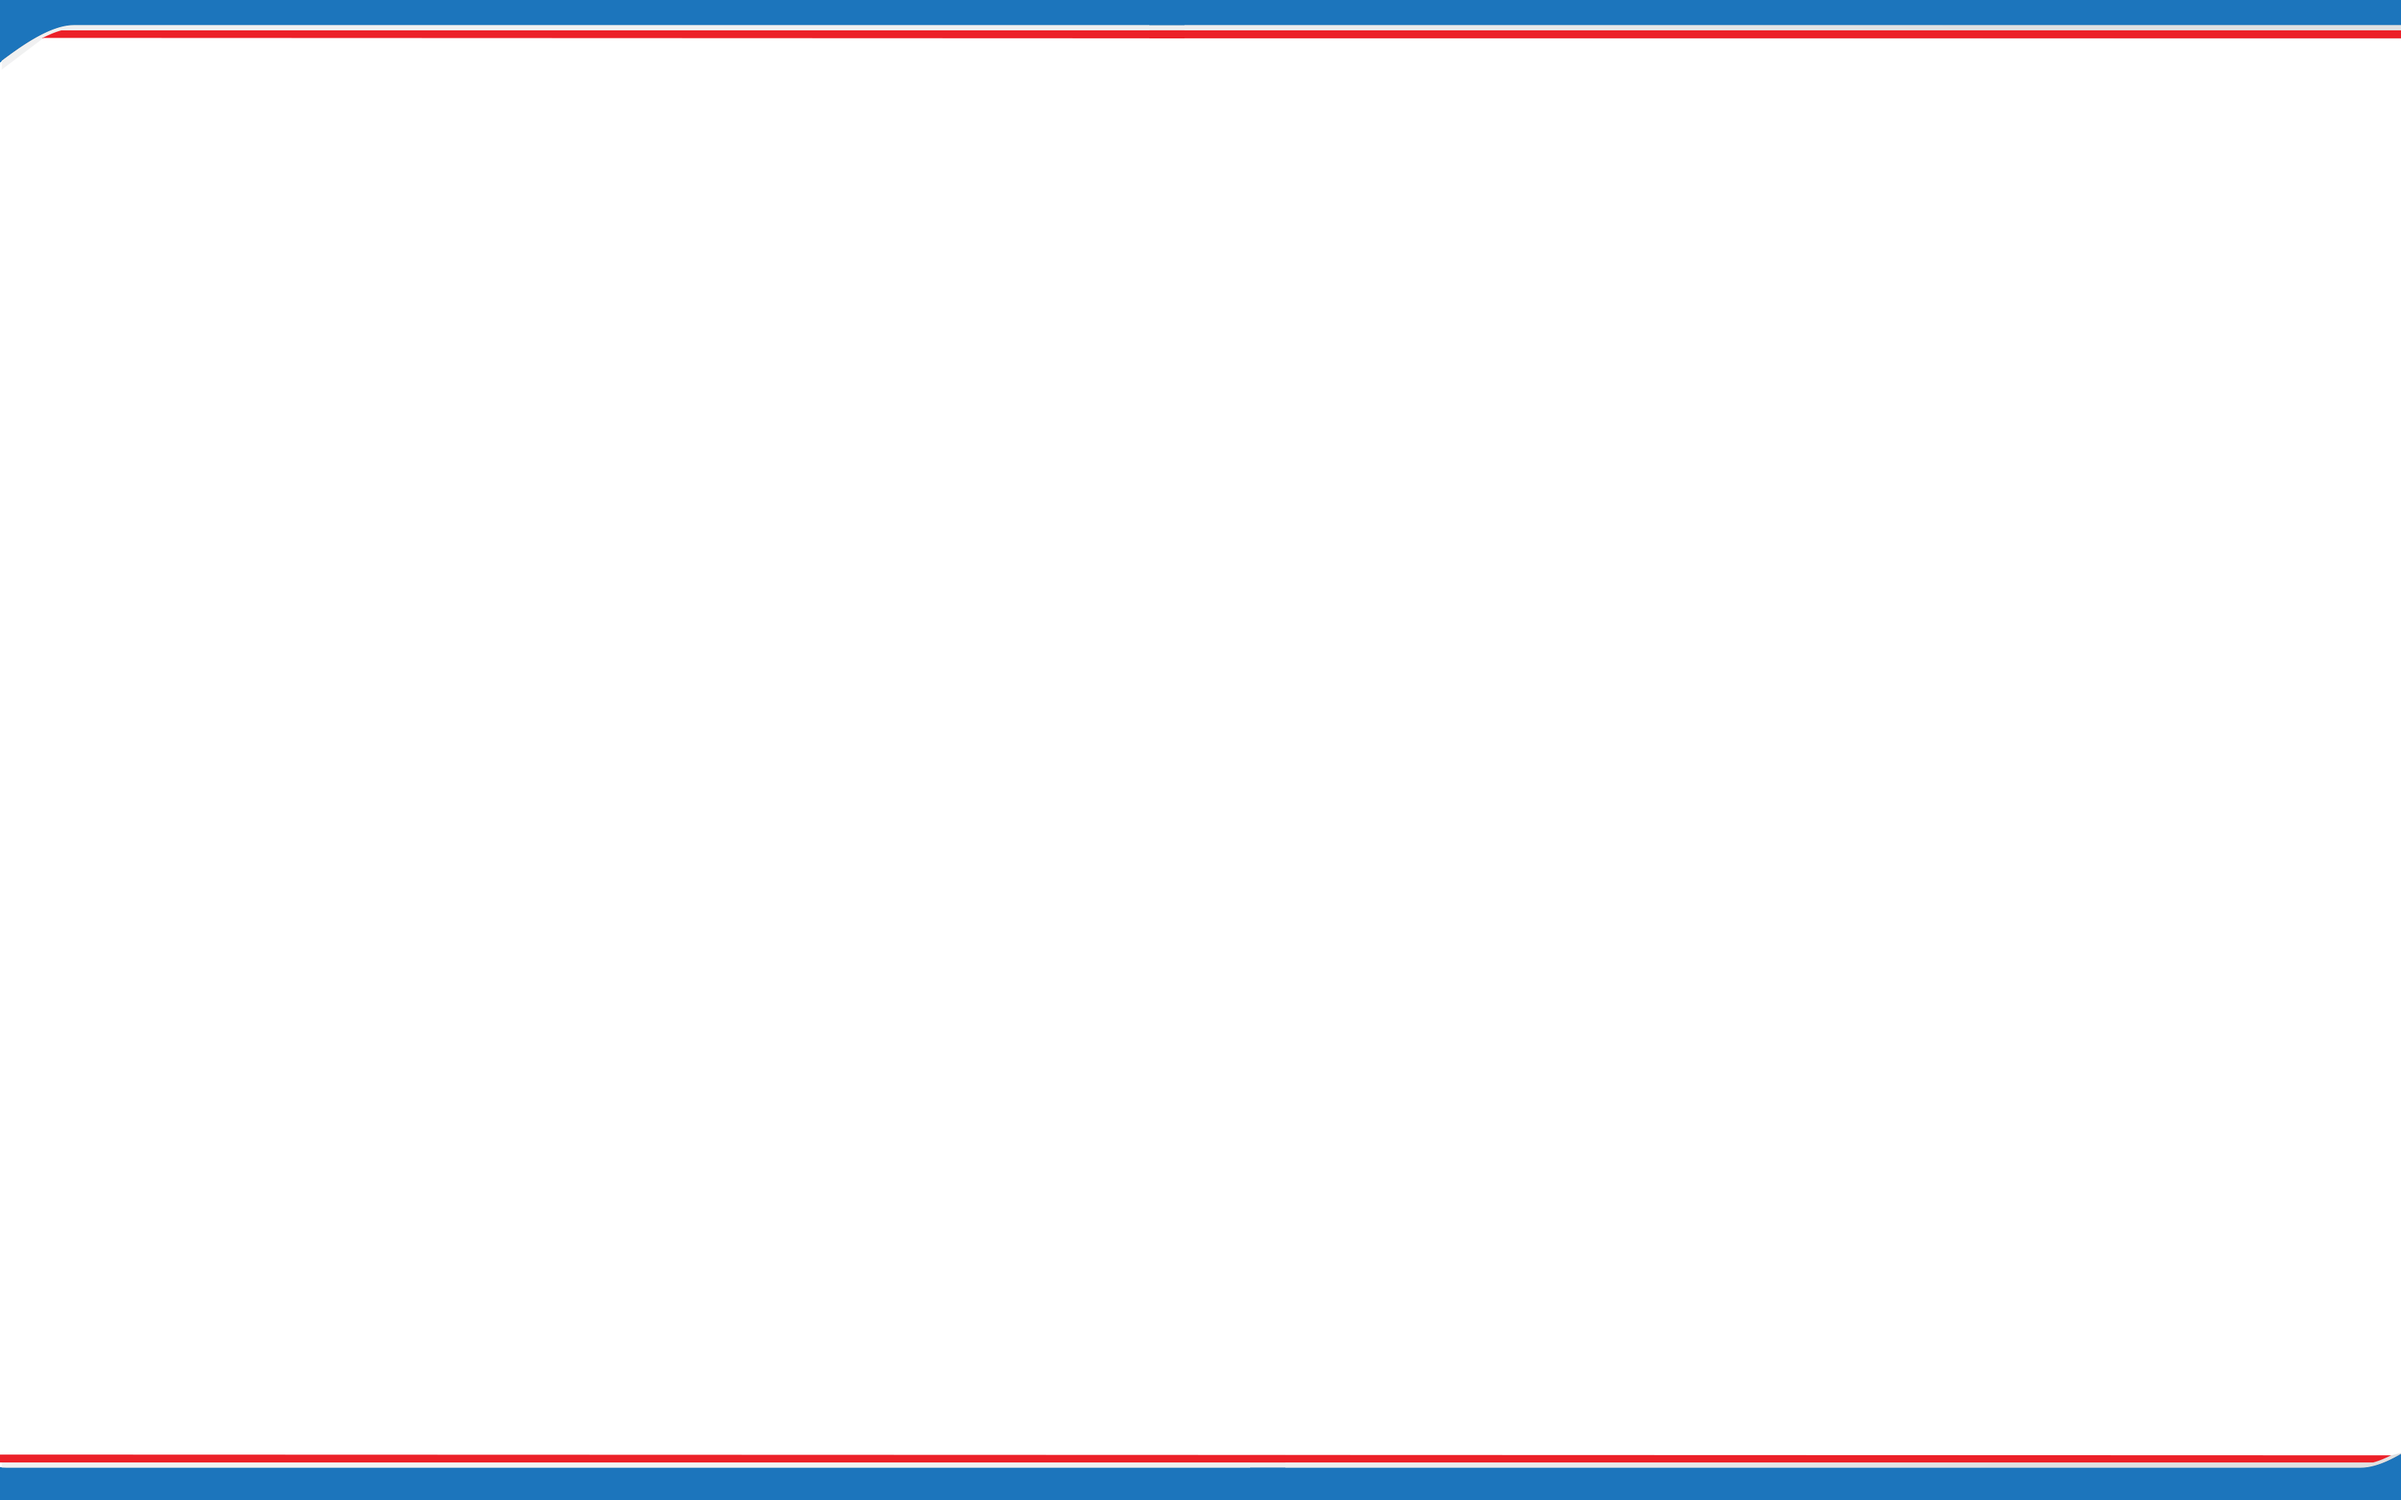
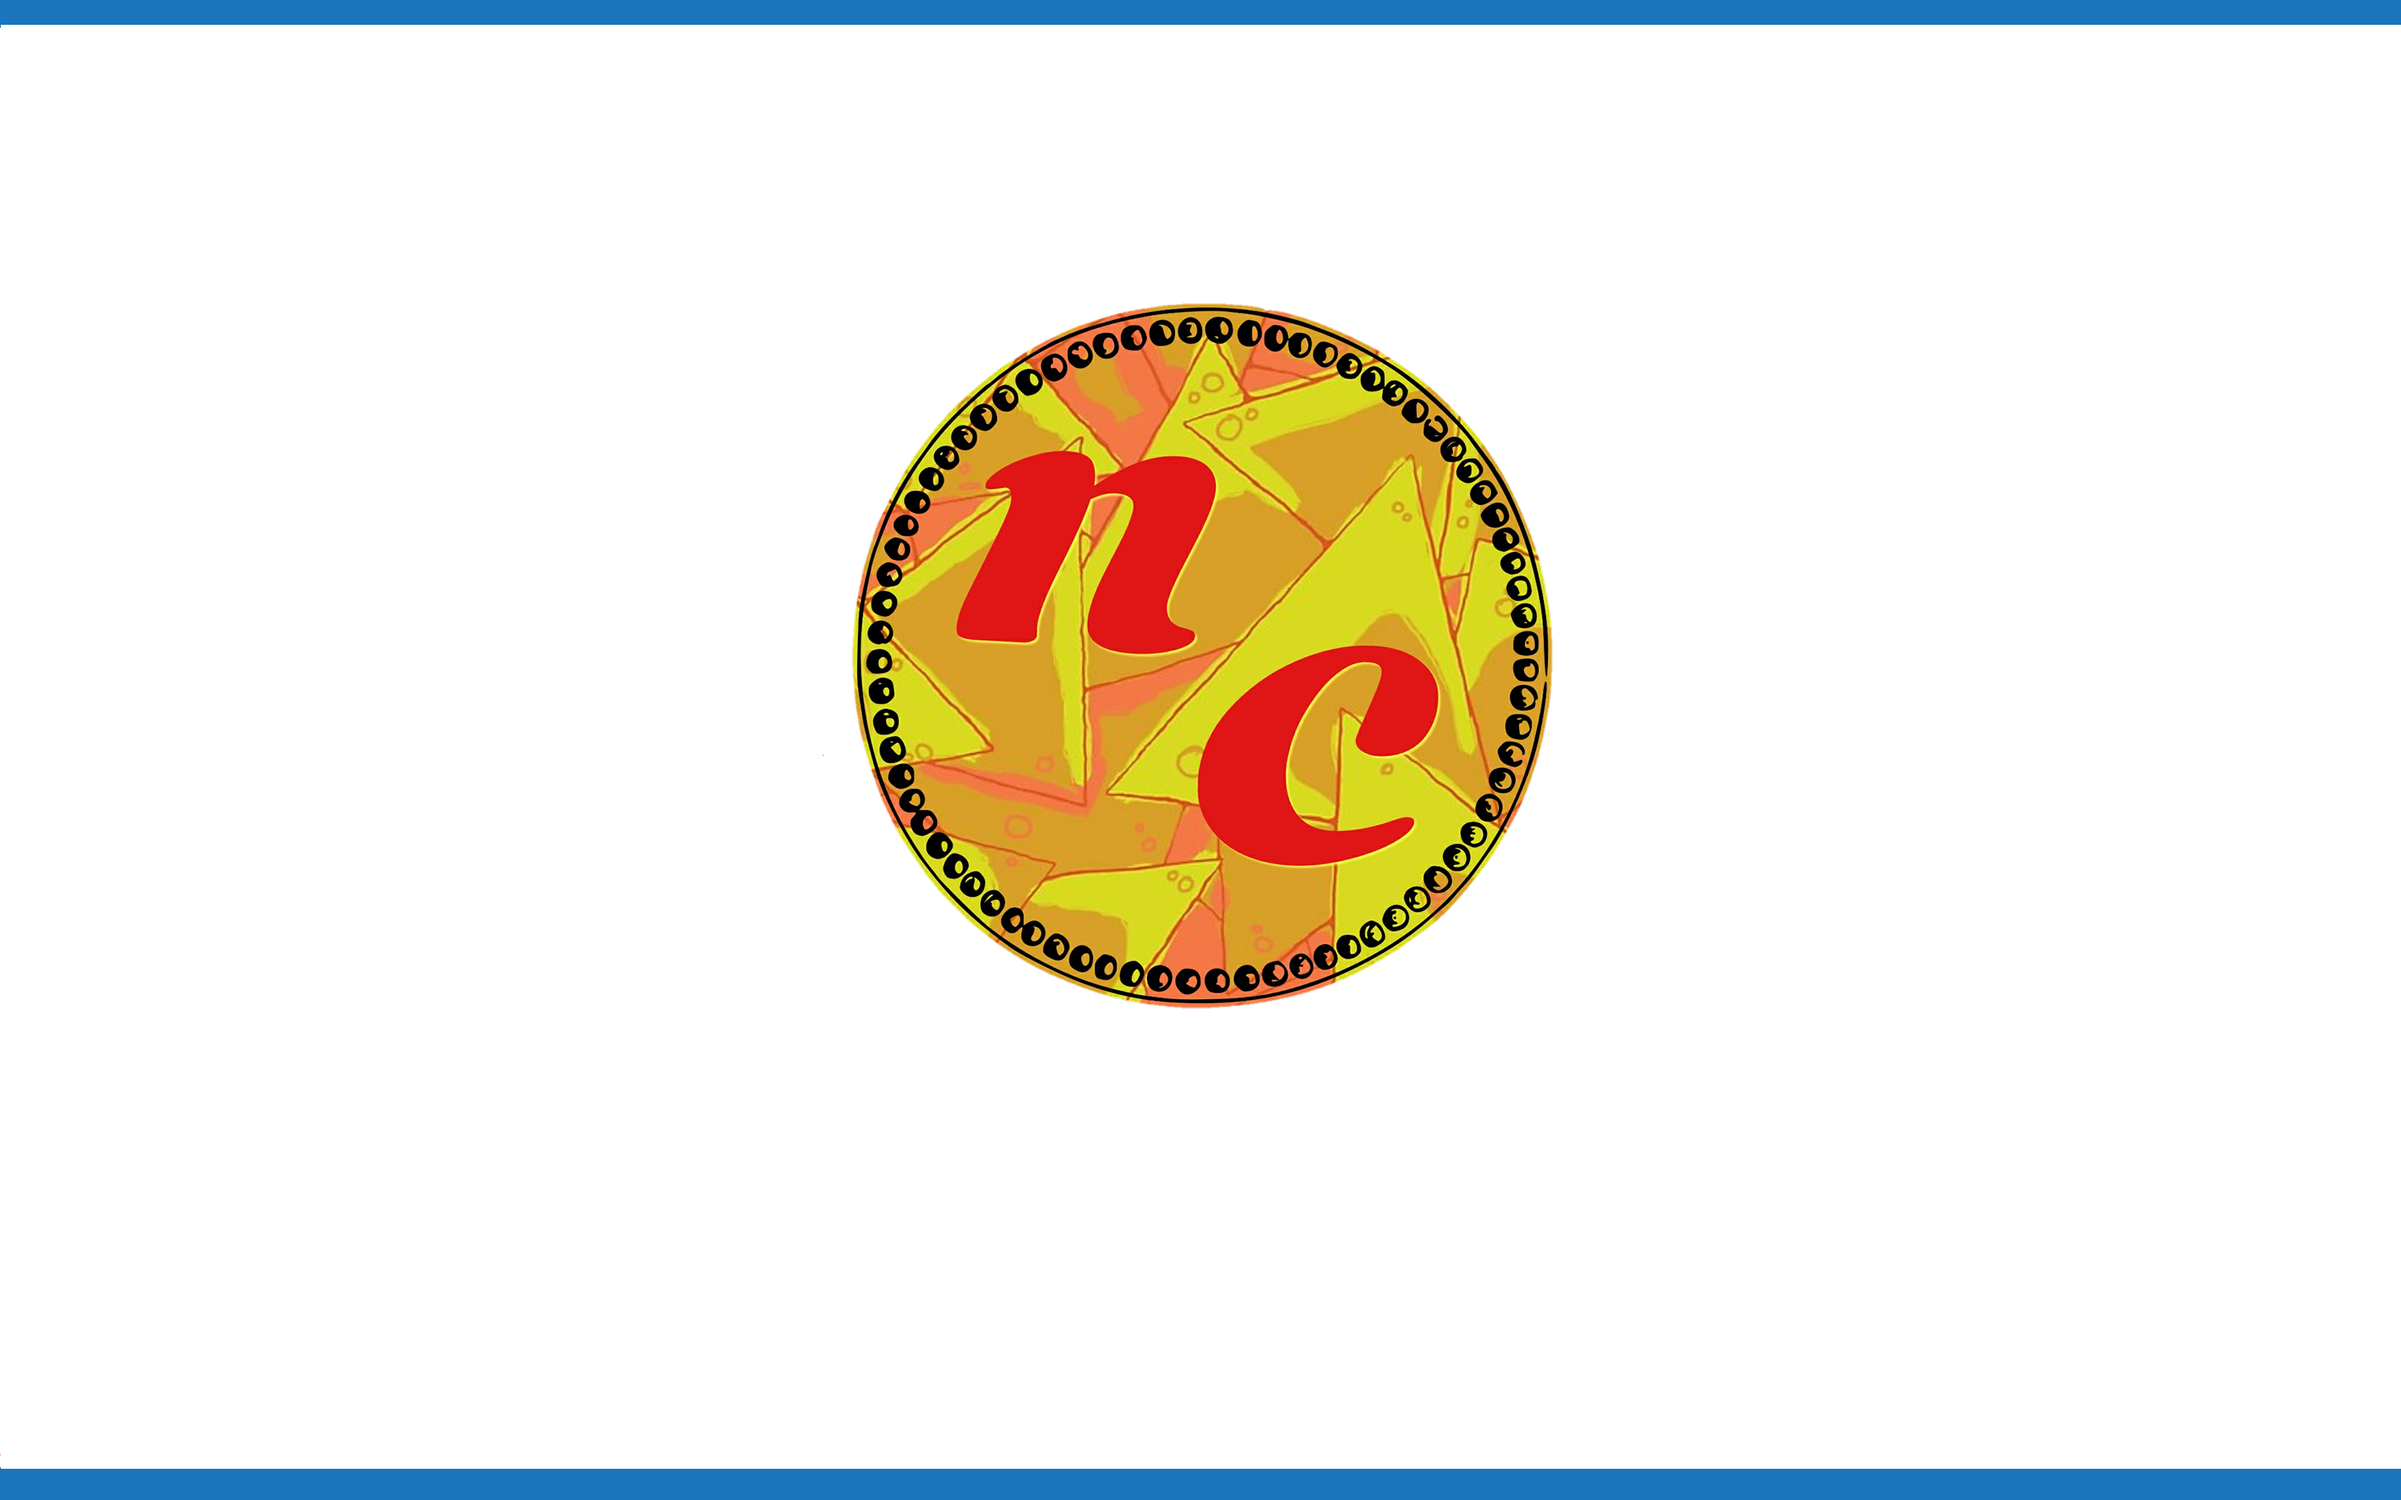
GUI updates
We have updated the splash screen on wallet launch as well as the gui background image.

Changed region(s): [[0.341, 0.1856, 0.651, 0.6805], [0.0, 0.9589, 1.0, 0.9899], [0.0, 0.0, 1.0, 0.0309]]

diff --git a/src/version.h b/src/version.h
@@ -12,7 +12,7 @@
  */
 
 
-static const int PROTOCOL_VERSION = 70212;
+static const int PROTOCOL_VERSION = 70210;
 
 //! initial proto version, to be increased after version/verack negotiation
 static const int INIT_PROTO_VERSION = 209;
@@ -21,7 +21,7 @@ static const int INIT_PROTO_VERSION = 209;
 static const int GETHEADERS_VERSION = 70077;
 
 //! disconnect from peers older than this proto version
-static const int MIN_PEER_PROTO_VERSION = 70211;
+static const int MIN_PEER_PROTO_VERSION = 70209;
 
 //! nTime field added to CAddress, starting with this version;
 //! if possible, avoid requesting addresses nodes older than this
